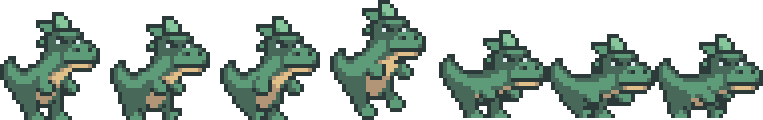
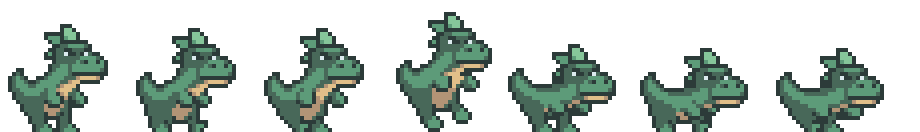
Added new dino skins and eddited dino skin bounds

diff --git a/root/js/DinoGame.js b/root/js/DinoGame.js
@@ -54,7 +54,7 @@ function preload ()
     this.load.image('UnmuteBtn', "../assets/cyberDino/sprites/Unmuted.png"); 
 
     this.load.spritesheet(Skin, SkinPath,
-        { frameWidth: 109, frameHeight: 120}
+        { frameWidth: 127, frameHeight: 132}
     );
 
     this.load.audio('jumpsfx',['../assets/cyberDino/sfx/Jump1.wav']);
@@ -113,7 +113,7 @@ function create ()
 
     platforms = this.physics.add.staticGroup();
 
-    //create platforms //TODO replace with a singe platform
+    //create platforms
     platforms.create(config.width * 0.15, config.height * 0.985, 'ground').setVisible(false);
     platforms.create(config.width * 0.45, config.height* 0.985, 'ground').setVisible(false);
     platforms.create(config.width * 0.75, config.height* 0.985, 'ground').setVisible(false);
@@ -149,7 +149,7 @@ function create ()
     SFX = this.sound;
 
     //create player
-    player = this.physics.add.sprite(config.width * 0.2, config.height * 0.58, Skin).setScale(1);
+    player = this.physics.add.sprite(config.width * 0.2, config.height * 0.58, Skin);
     player.setBounce(0.1);
     player.setCollideWorldBounds(true); //sets border of the screen to be bounds
     player.body.setSize(65, 110 );
